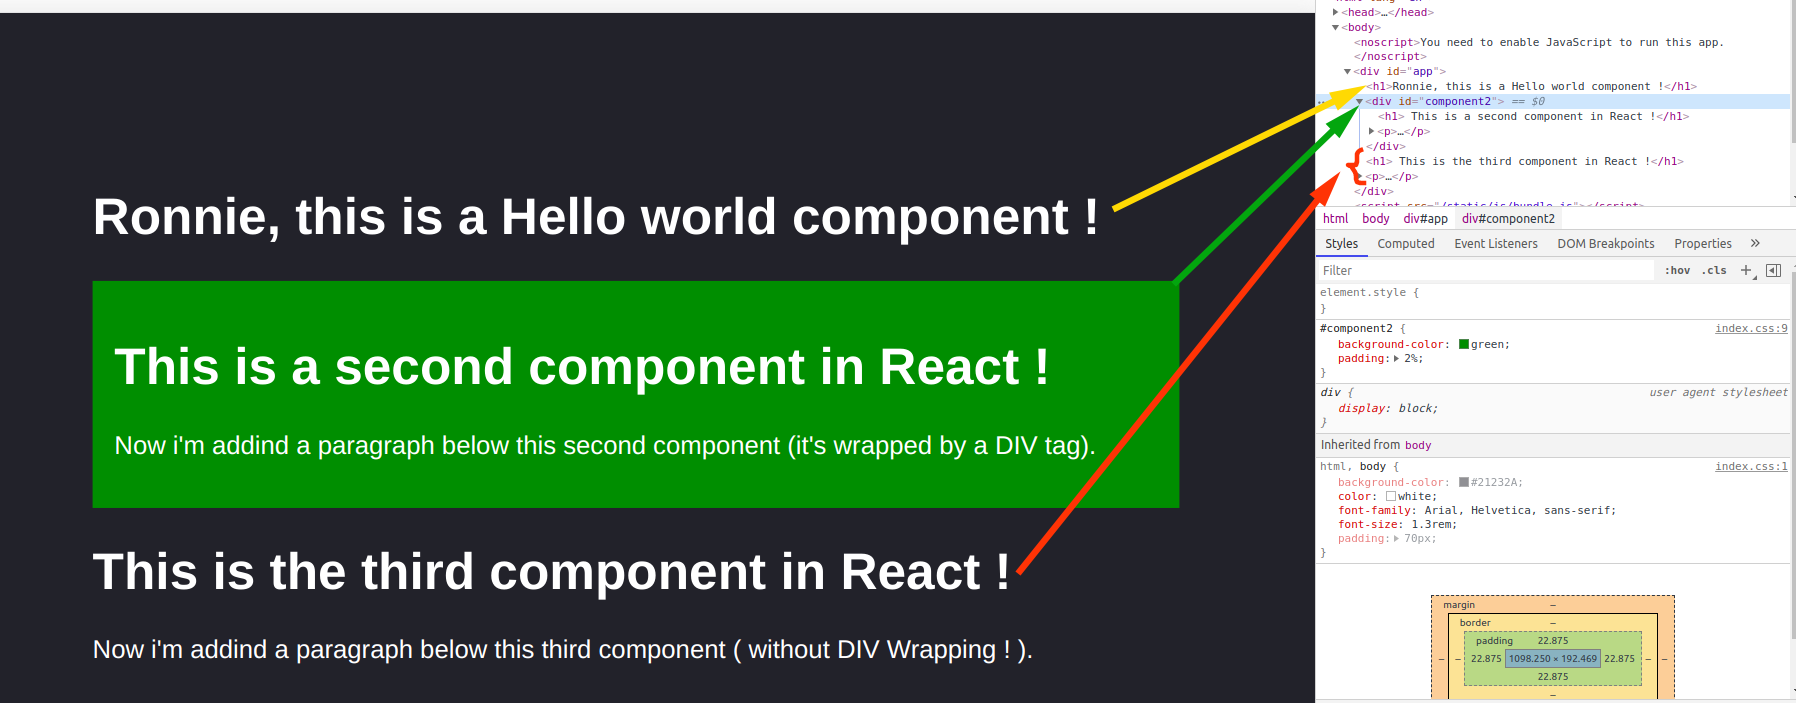
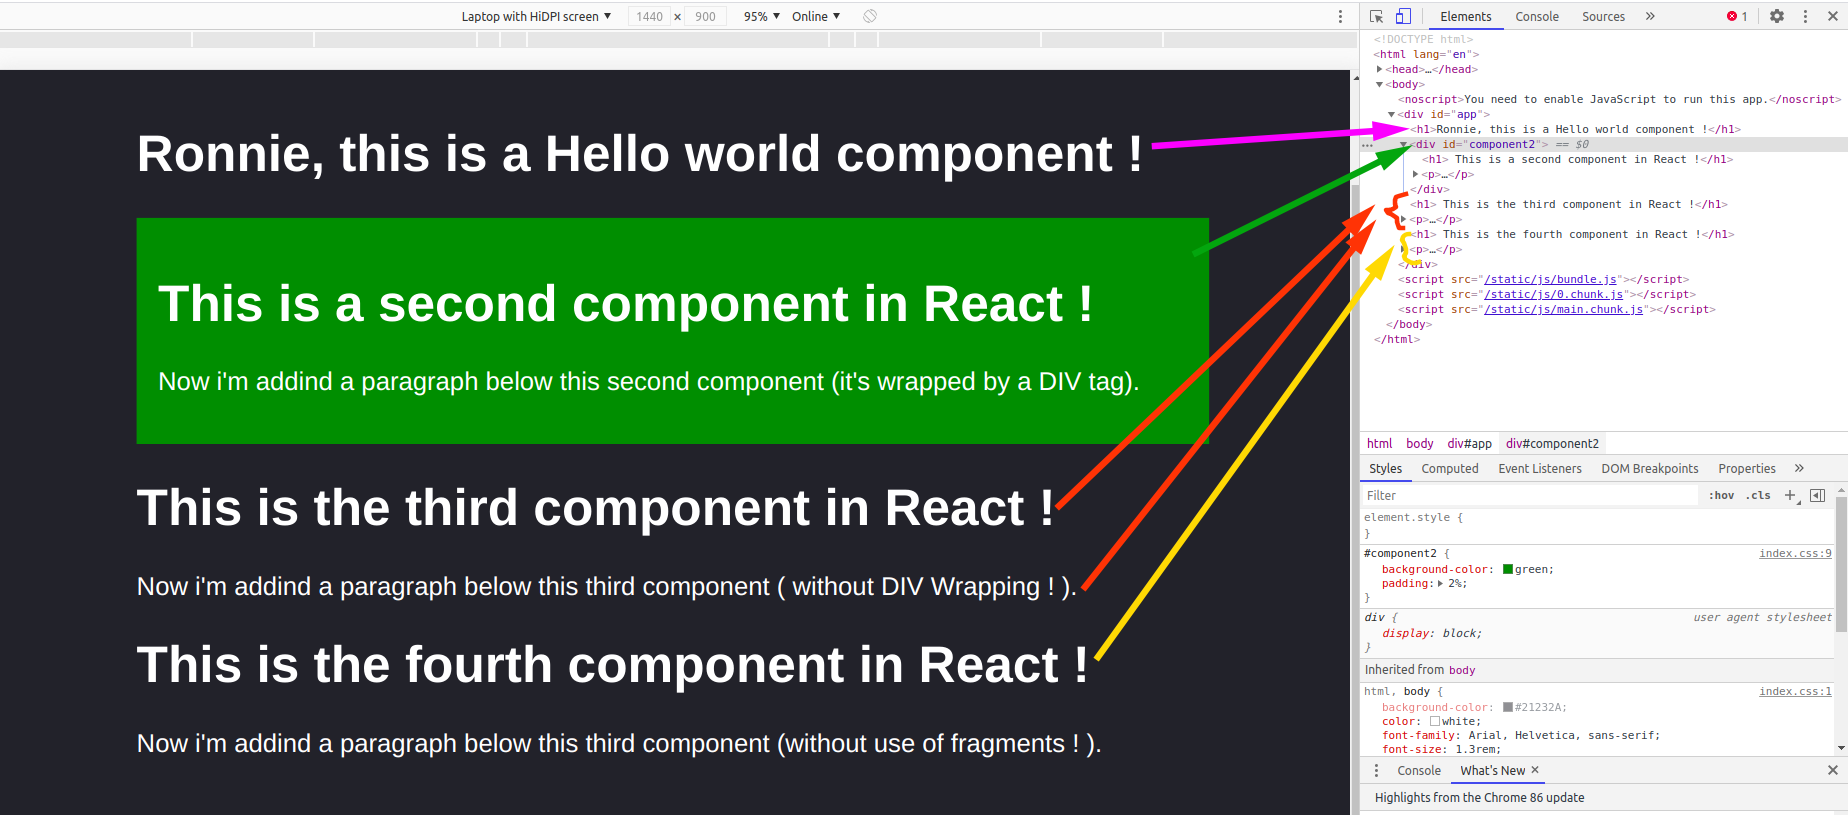
creating a fourthApp component

diff --git a/03-counter-app/src/FirstApp.js b/03-counter-app/src/FirstApp.js
@@ -51,5 +51,18 @@ export const ThirdApp = () => {
 }
 
 
+// after learning about 'Fragments', i found a short way of do 'FRAGMENTS' but without need to import 'Fragment' module
+// from React modules, and it's just wrapping elements with empty opening and closing tags like this =>   <> </>.
+// let's do this in our FourthApp.
+export const FourthApp = () => {
+    return  (
+            <>
+                <h1> This is the fourth component in React !</h1>
+                <p> Now i'm addind a paragraph below this third component (without use of fragments ! ).</p>
+            </>
+    );
+}
+
+
 // exporting by default this component.
 export default FirstApp;

diff --git a/03-counter-app/src/index.js b/03-counter-app/src/index.js
@@ -3,7 +3,7 @@
 // importing the 'FirstApp' component.
 import React from 'react';
 import ReactDOM from 'react-dom';
-import FirstApp, { SecondApp, ThirdApp } from './FirstApp';
+import FirstApp, { SecondApp, ThirdApp, FourthApp } from './FirstApp';
 
 // applying some style to my first component :D
 // importing the index.css file.
@@ -14,4 +14,4 @@ import './index.css';
 const divRoot = document.querySelector('#app');
 
 // rendering the 'FirstApp' and 'SecondApp' component into the divRoot asigned object.
-ReactDOM.render([<FirstApp/>, <SecondApp/>, <ThirdApp/>], divRoot);
+ReactDOM.render([<FirstApp/>, <SecondApp/>, <ThirdApp/>, <FourthApp/>], divRoot);
